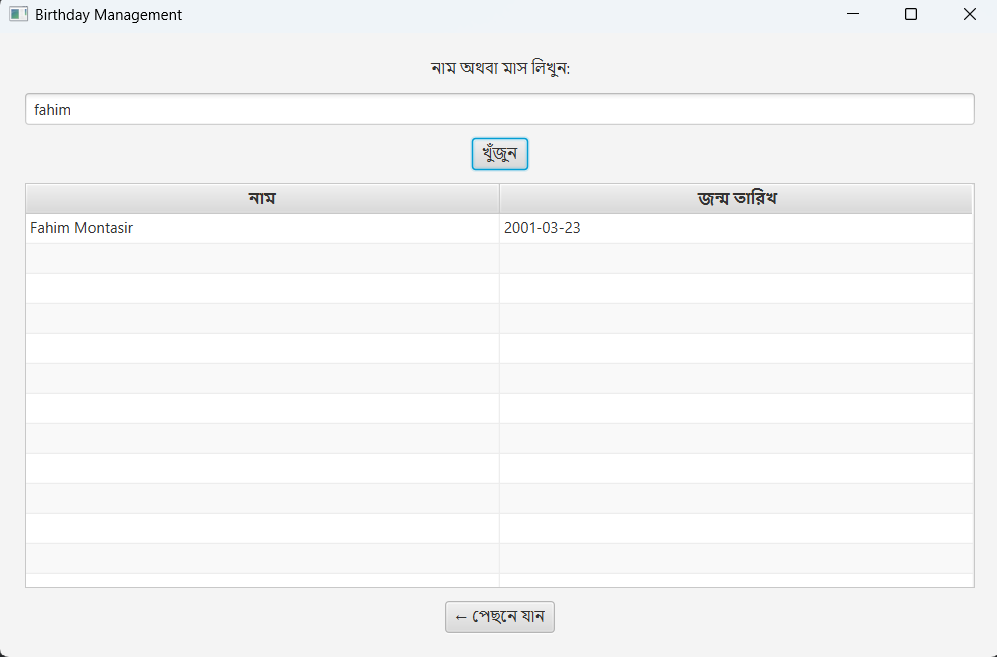
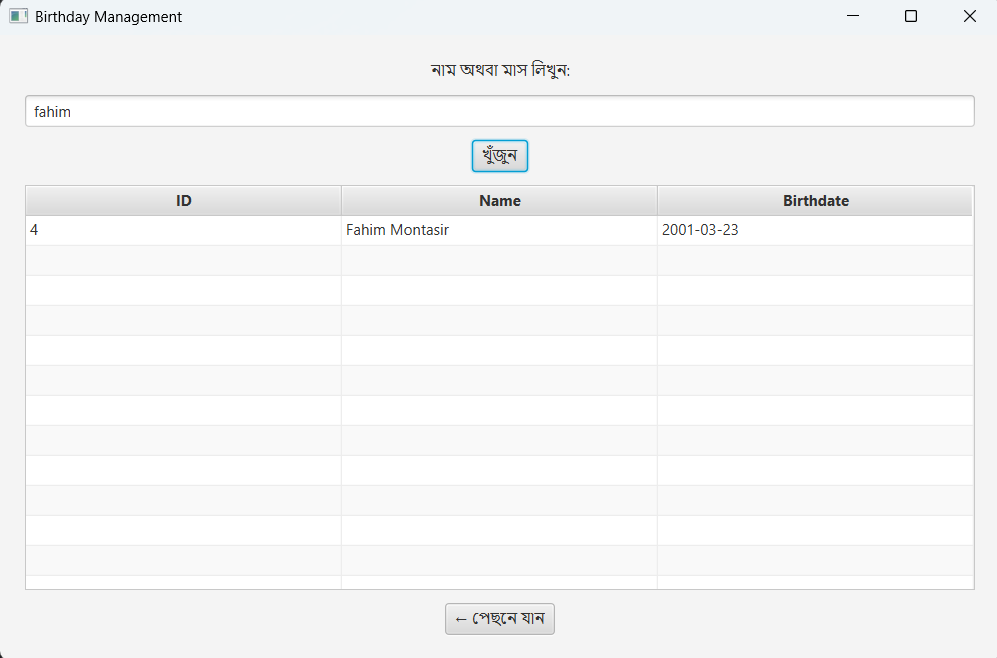
improved user experience

diff --git a/src/BirthdayManagement.java b/src/BirthdayManagement.java
@@ -160,13 +160,17 @@ public class BirthdayManagement extends Application {
         btnBackFromSearch.setOnAction(this::actionPerformed);
 
         resultTable = new TableView<>();
-        TableColumn<Classmate, String> nameCol = new TableColumn<>("নাম");
+
+        TableColumn<Classmate, String> idCol = new TableColumn<>("ID");
+        idCol.setCellValueFactory(new PropertyValueFactory<>("id"));
+
+        TableColumn<Classmate, String> nameCol = new TableColumn<>("Name");
         nameCol.setCellValueFactory(new PropertyValueFactory<>("name"));
 
-        TableColumn<Classmate, LocalDate> dateCol = new TableColumn<>("জন্ম তারিখ");
+        TableColumn<Classmate, LocalDate> dateCol = new TableColumn<>("Birthdate");
         dateCol.setCellValueFactory(new PropertyValueFactory<>("birthdate"));
 
-        resultTable.getColumns().addAll(nameCol, dateCol);
+        resultTable.getColumns().addAll(idCol, nameCol, dateCol);
         resultTable.setColumnResizePolicy(TableView.CONSTRAINED_RESIZE_POLICY);
 
         searchPane = new VBox(10, lblSearch, tfSearch, btnSearchSubmit, resultTable, btnBackFromSearch);
